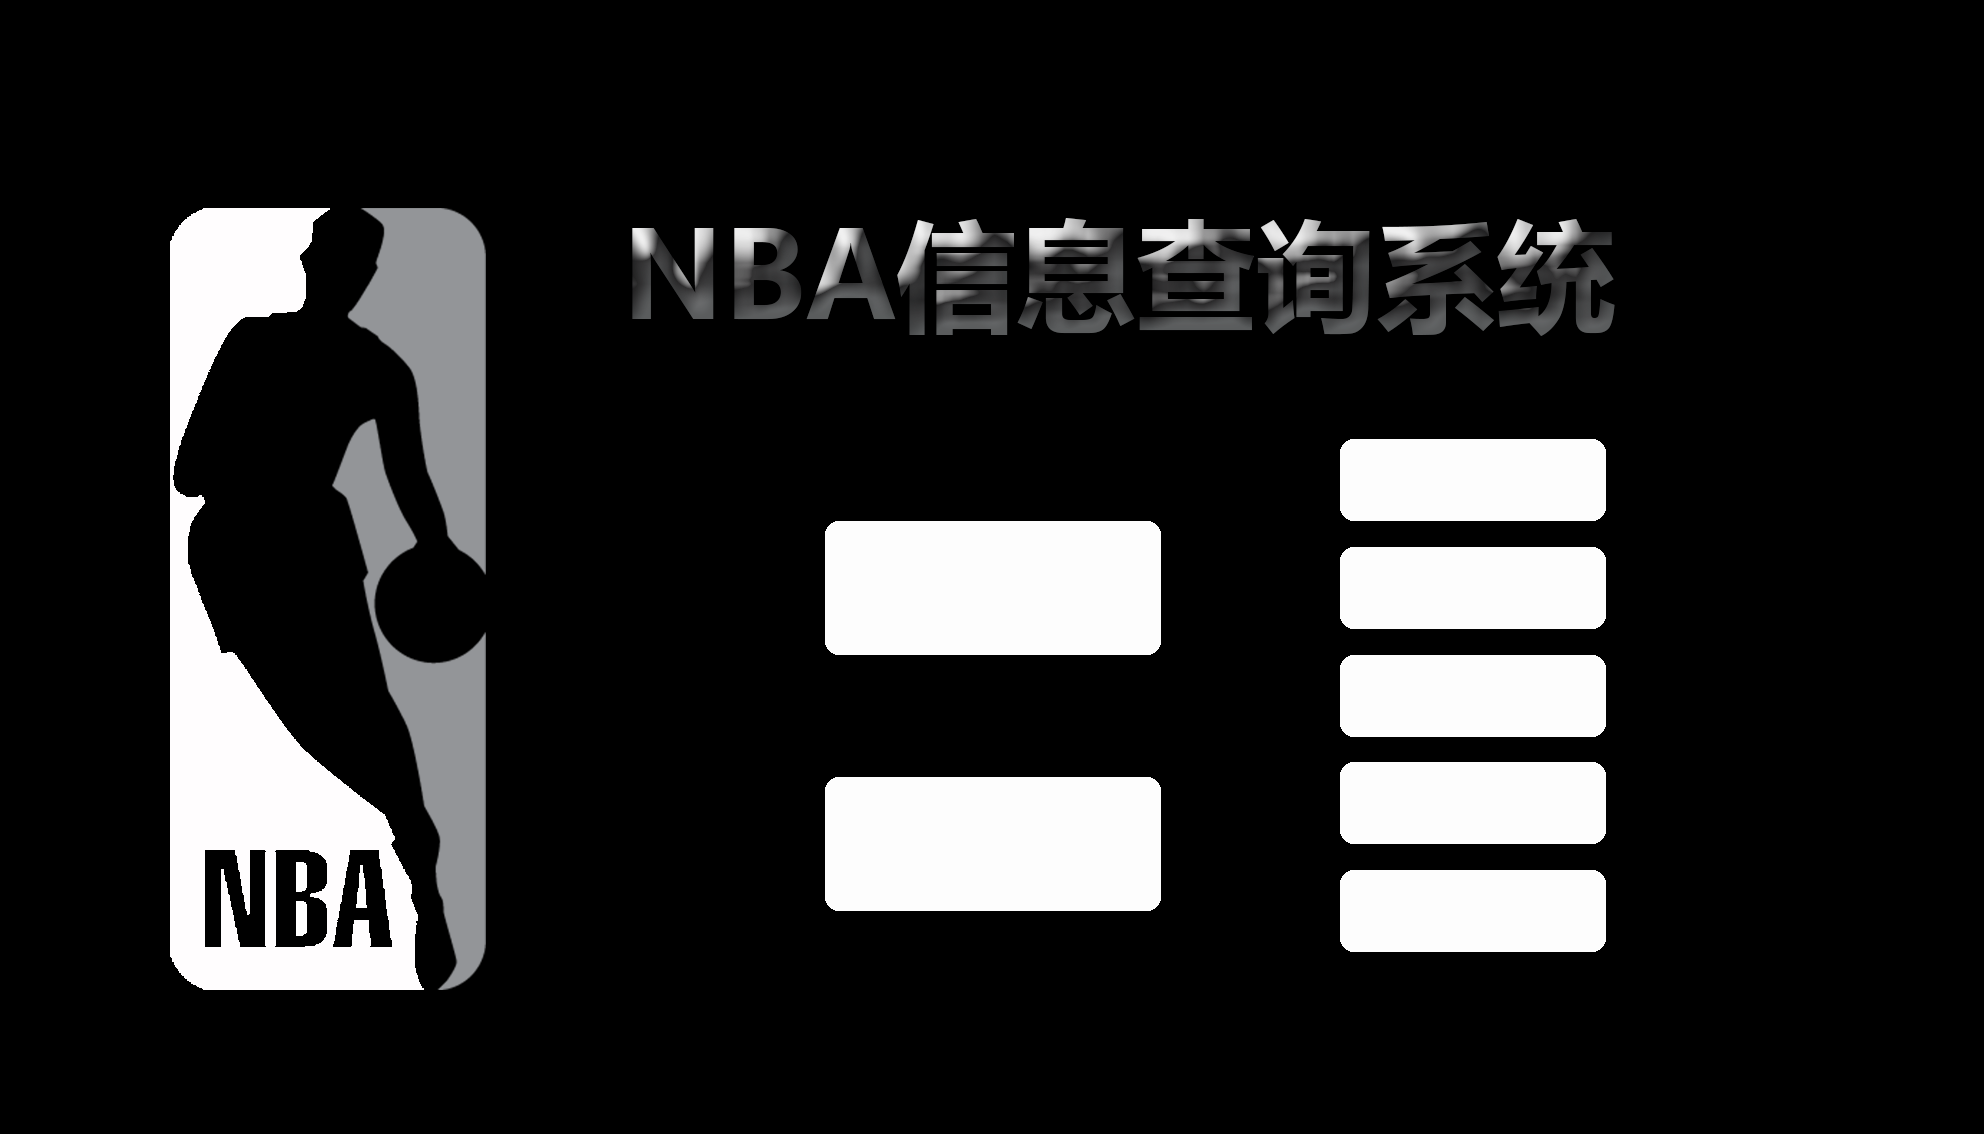
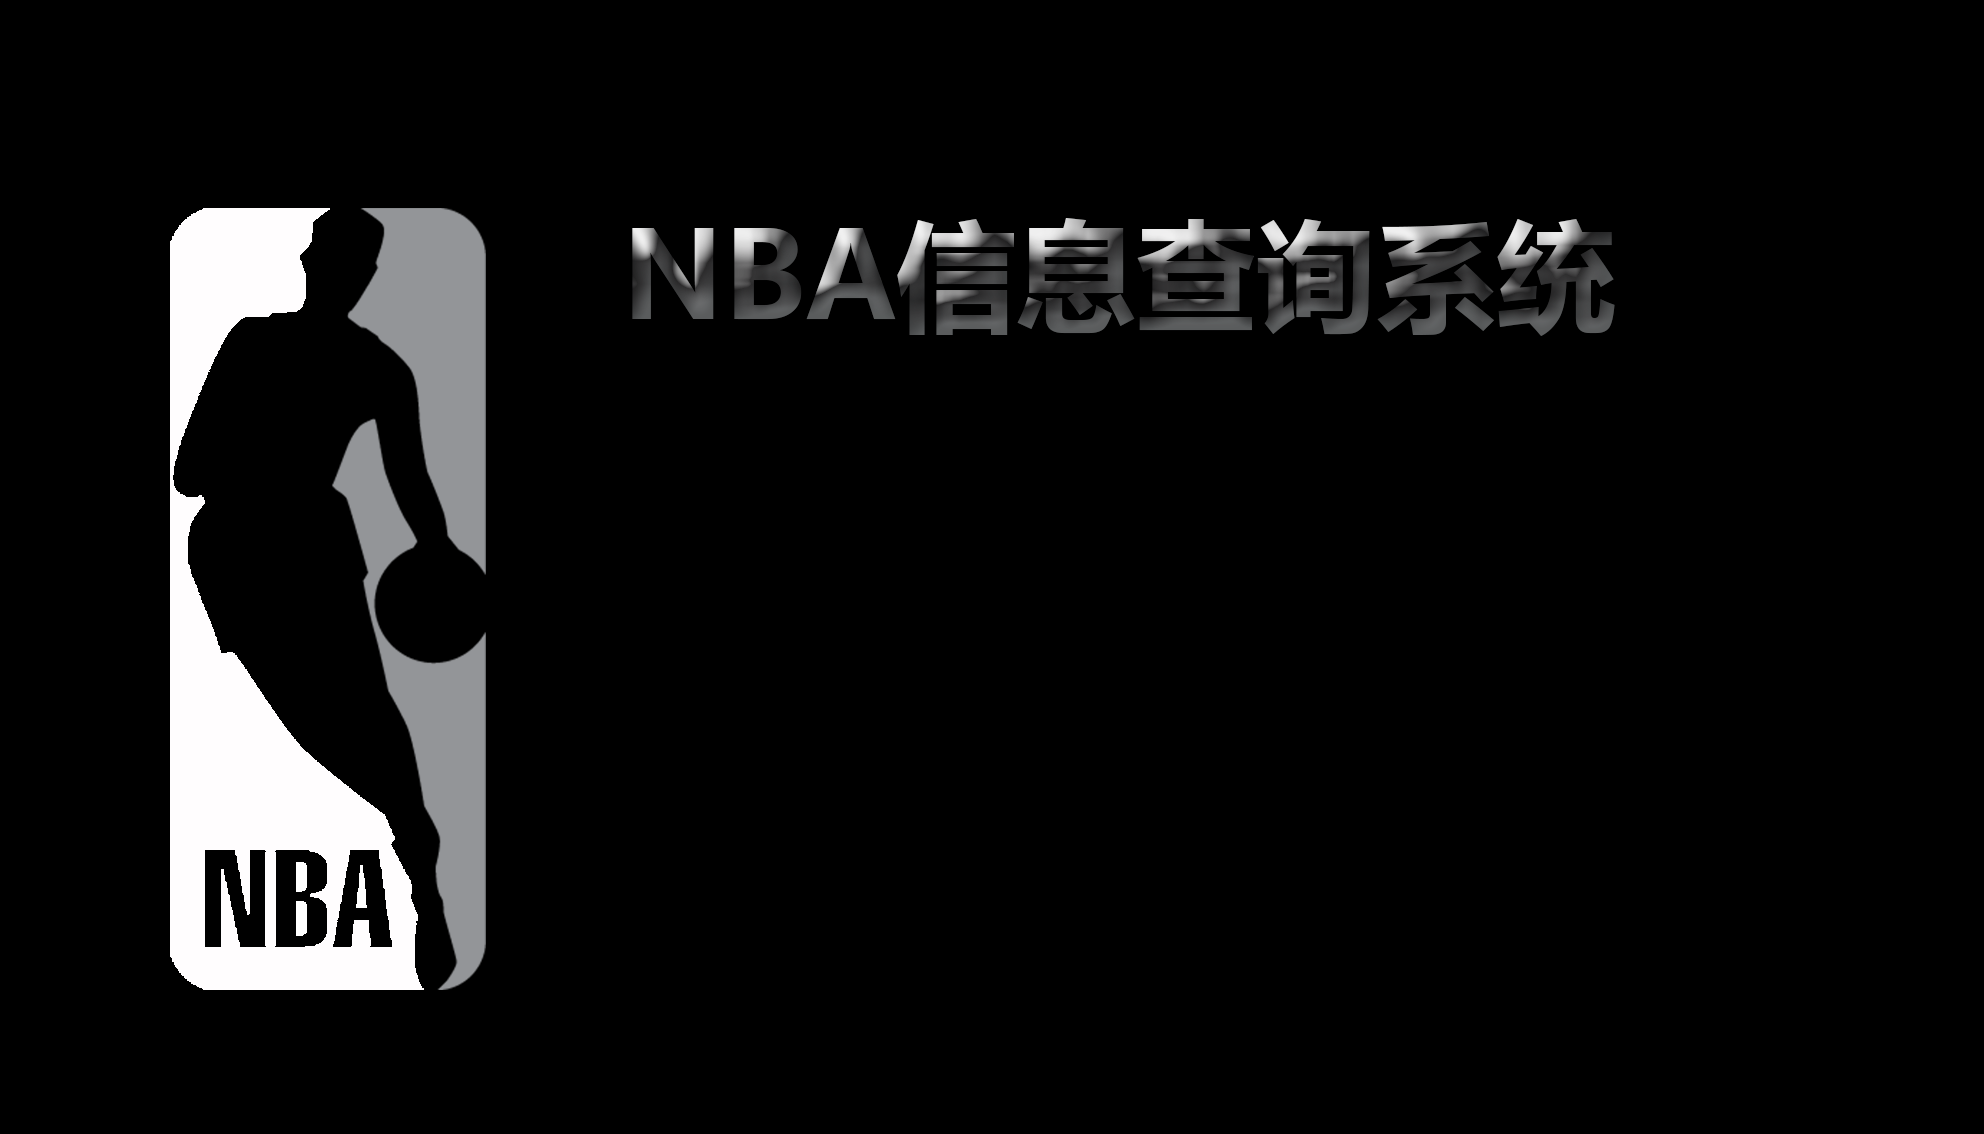
have a try

Changed region(s): [[0.6562, 0.3704, 0.8125, 0.8642], [0.4062, 0.4321, 0.5938, 0.5864], [0.4062, 0.679, 0.5938, 0.8025]]

diff --git a/NBA_Stat_Sys/src/ui/StartPanel.java b/NBA_Stat_Sys/src/ui/StartPanel.java
@@ -1,5 +1,7 @@
 package ui;
 
+import java.awt.Color;
+import java.awt.Font;
 import java.awt.Image;
 import java.awt.event.ActionEvent;
 import java.awt.event.ActionListener;
@@ -58,62 +60,95 @@ public class StartPanel extends JPanel {
 	
 
 	public void createButton() {
-
-		JButton playerInfobtn = new JButton("球员信息");
-		playerInfobtn.setBounds(283, 175, 93, 23);
+		int subX=55*X/100;
+		MyButton playerInfobtn = new MyButton("球员信息");
+		playerInfobtn.setBounds(7*X/20, 9*Y/20, X/6, Y/10);
 		playerInfobtn.addActionListener(e -> playerOpe());
 		bgLabel.add(playerInfobtn);
 
-		JButton teamInfobtn = new JButton("球队信息");
-		teamInfobtn.setBounds(283, 263, 93, 23);
+		MyButton teamInfobtn = new MyButton("球队信息");
+		teamInfobtn.setBounds(7*X/20, 2*Y/3, X/6,  Y/10);
 		teamInfobtn.addActionListener(e -> teamOpe());
 		bgLabel.add(teamInfobtn);
 
-		searchPlayerbtn = new JButton("球员查看");
-		searchPlayerbtn.setBounds(380, 150, 93, 23);
+		searchPlayerbtn = new MyButton("球员查看");
+		searchPlayerbtn.setBounds(subX, 35*Y/100, X/6,  Y/10);
 		searchPlayerbtn.addActionListener(e -> toSearchPlayerPanel());
 		searchPlayerbtn.setVisible(false);
 		bgLabel.add(searchPlayerbtn);
 
-		sortPlayerbtn = new JButton("球员排序");
-		sortPlayerbtn.setBounds(380, 175, 93, 23);
+		sortPlayerbtn = new MyButton("球员排序");
+		sortPlayerbtn.setBounds(subX, 47*Y/100,X/6, Y/10);
 		sortPlayerbtn.addActionListener(e -> toSortPlayerPanel());
 		sortPlayerbtn.setVisible(false);
 		bgLabel.add(sortPlayerbtn);
 
-		screeningPlayerbtn = new JButton("球员筛选");
-		screeningPlayerbtn.setBounds(380, 200, 93, 23);
+		screeningPlayerbtn = new MyButton("球员筛选");
+		screeningPlayerbtn.setBounds(subX, 59*Y/100,  X/6,  Y/10);
 		screeningPlayerbtn.addActionListener(e -> toScreeningPlayerPanel());
 		screeningPlayerbtn.setVisible(false);
 		bgLabel.add(screeningPlayerbtn);
 
-		searchTeambtn = new JButton("球队查看");
-		searchTeambtn.setBounds(380, 250, 93, 23);
+		searchTeambtn = new MyButton("球队查看");
+		searchTeambtn.setBounds(subX, 60*Y/100, X/6,  Y/10);
 		searchTeambtn.addActionListener(e -> toSearchTeamPanel());
 		searchTeambtn.setVisible(false);
 		bgLabel.add(searchTeambtn);
 
-		sortTeambtn = new JButton("球队排序");
-		sortTeambtn.setBounds(380, 275, 93, 23);
+		sortTeambtn = new MyButton("球队排序");
+		sortTeambtn.setBounds(subX, 72*Y/100, X/6,  Y/10);
 		sortTeambtn.addActionListener(e -> toSortTeamPanel());
 		sortTeambtn.setVisible(false);
 		bgLabel.add(sortTeambtn);
 
-		JButton exitButton = new JButton();
-		exitButton.setBounds(85 * X / 99, 85 * Y / 100, 13 * X / 100,
-				11 * Y / 100);
-		ImageIcon exitground = new ImageIcon(
-				"Image/exit.png");
-		exitground = new ImageIcon(exitground.getImage().getScaledInstance(
-				exitButton.getWidth(), exitButton.getHeight(),
-				Image.SCALE_SMOOTH));
-		exitButton.setIcon(exitground);
-		exitButton.setOpaque(false);
-		exitButton.setContentAreaFilled(false);
-		exitButton.setBorderPainted(false);
-		exitButton.addActionListener(e -> mainFrame.dispose());
+		JButton home = new JButton();
+		ImageIcon homeIcon = new ImageIcon(new ImageIcon("Image/homeIcon.png")
+				.getImage().getScaledInstance(X / 25, X / 25,
+						Image.SCALE_SMOOTH));
+		home.setBounds(17 * X / 20, Y / 18, X / 25, X / 25);
+		home.setIcon(homeIcon);
+		home.setOpaque(false);
+		home.setContentAreaFilled(false);
+		home.setBorderPainted(false);
+		bgLabel.add(home);
+		JButton minimize = new JButton();
+		ImageIcon minimizeIcon = new ImageIcon(new ImageIcon(
+				"Image/minimizeIcon.png").getImage().getScaledInstance(X / 25,
+				X / 25, Image.SCALE_SMOOTH));
+		minimize.setBounds(18 * X / 20, Y / 18, X / 25, X / 25);
+		minimize.setIcon(minimizeIcon);
+		minimize.setOpaque(false);
+		minimize.setContentAreaFilled(false);
+		minimize.setBorderPainted(false);
+		minimize.addActionListener(new ActionListener() {
 
-		bgLabel.add(exitButton);
+			@Override
+			public void actionPerformed(ActionEvent e) {
+				// TODO Auto-generated method stub
+				mainFrame.setExtendedState(JFrame.ICONIFIED);
+			}
+		});
+		bgLabel.add(minimize);
+
+		JButton close = new JButton();
+		ImageIcon closeIcon = new ImageIcon(
+				new ImageIcon("Image/closeIcon.png").getImage()
+						.getScaledInstance(X / 25, X / 25, Image.SCALE_SMOOTH));
+		close.setBounds(19* X / 20, Y / 18, X / 25, X / 25);
+		close.setIcon(closeIcon);
+		close.setOpaque(false);
+		close.setContentAreaFilled(false);
+		close.setBorderPainted(false);
+		close.addActionListener(new ActionListener() {
+
+			@Override
+			public void actionPerformed(ActionEvent e) {
+				// TODO Auto-generated method stub
+				mainFrame.dispose();
+			}
+		});
+		bgLabel.add(close);
+
 	}
 
 	public void playerOpe() {
@@ -167,5 +202,21 @@ public class StartPanel extends JPanel {
 		sortTeamPanel = new SortPanel("team", mainFrame);
 
 	}
-
+	class MyButton extends JButton{
+		public MyButton(String function){
+			super();
+//			this.setText(function);
+			this.setForeground(Color.WHITE);
+			this.setFont(new Font("微软雅黑",1,20));
+			ImageIcon buttonIcon = new ImageIcon(new ImageIcon(
+					"Image/mainButton.png").getImage().getScaledInstance( X/6,  Y/10,
+							 Image.SCALE_SMOOTH));
+			
+			this.setIcon(buttonIcon);
+			this.setOpaque(false);
+			this.setContentAreaFilled(false);
+			this.setBorderPainted(false);
+			
+		}
+	}
 }
